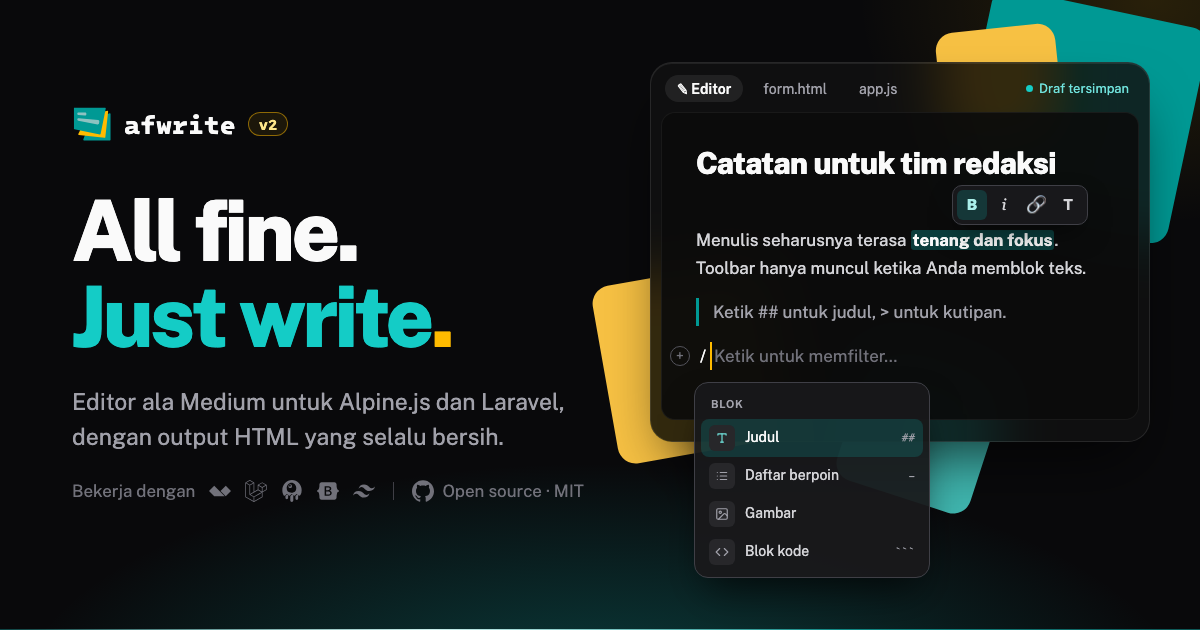
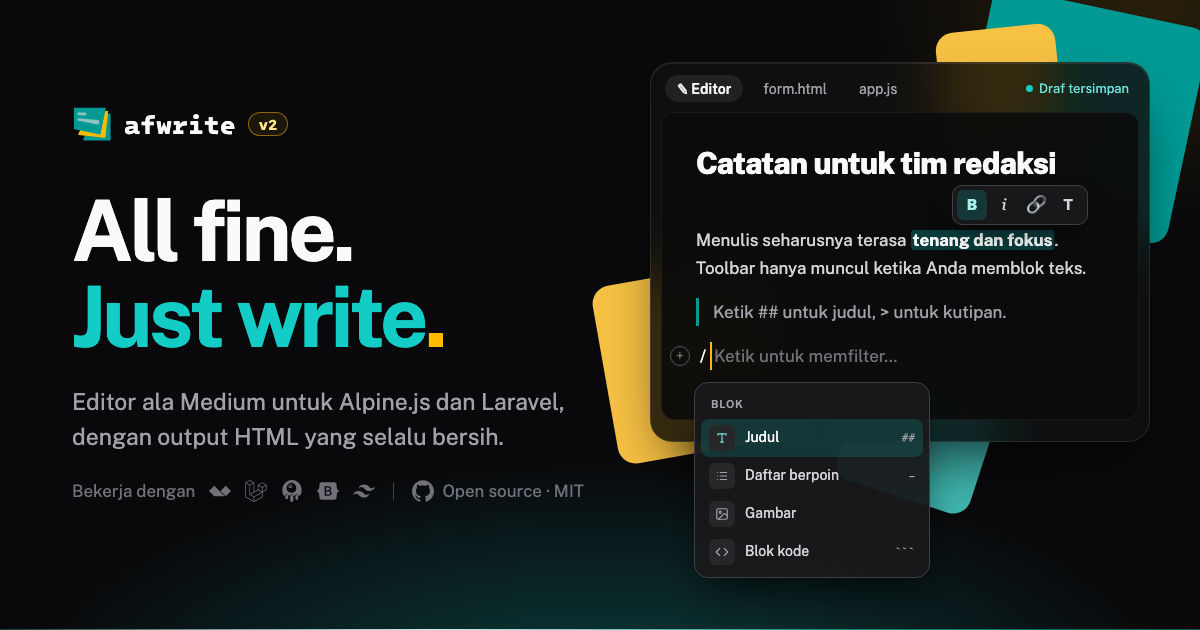
Website: judul OG landing lebih tipis (700)

Changed region(s): [[0.0617, 0.4524, 0.4008, 0.573], [0.1233, 0.3016, 0.3083, 0.4222], [0.0617, 0.3921, 0.0925, 0.4222]]

diff --git a/website/og/landing.html b/website/og/landing.html
@@ -22,7 +22,7 @@
   .brand { display: flex; align-items: center; gap: 12px; font-family: 'Intel One Mono', monospace; font-weight: 700; font-size: 26px; color: #fafafa; }
   .brand img { width: 40px; height: 40px; }
   .ver { padding: 1px 10px; border: 1px solid rgba(255,187,0,.5); border-radius: 999px; background: rgba(255,187,0,.08); font-size: 15px; color: #fde68a; }
-  h1 { margin: 18px 0 0; font-size: 84px; line-height: 1.02; font-weight: 800; letter-spacing: -0.04em; color: #fafafa; }
+  h1 { margin: 18px 0 0; font-size: 84px; line-height: 1.02; font-weight: 700; letter-spacing: -0.04em; color: #fafafa; }
   h1 .t { color: #14ccc6; } h1 .d { color: #ffbb00; }
   p { margin: 0; font-size: 23px; line-height: 1.5; color: #a1a1aa; }
   .works { display: flex; gap: 10px; align-items: center; font-size: 17px; color: #71717a; }
